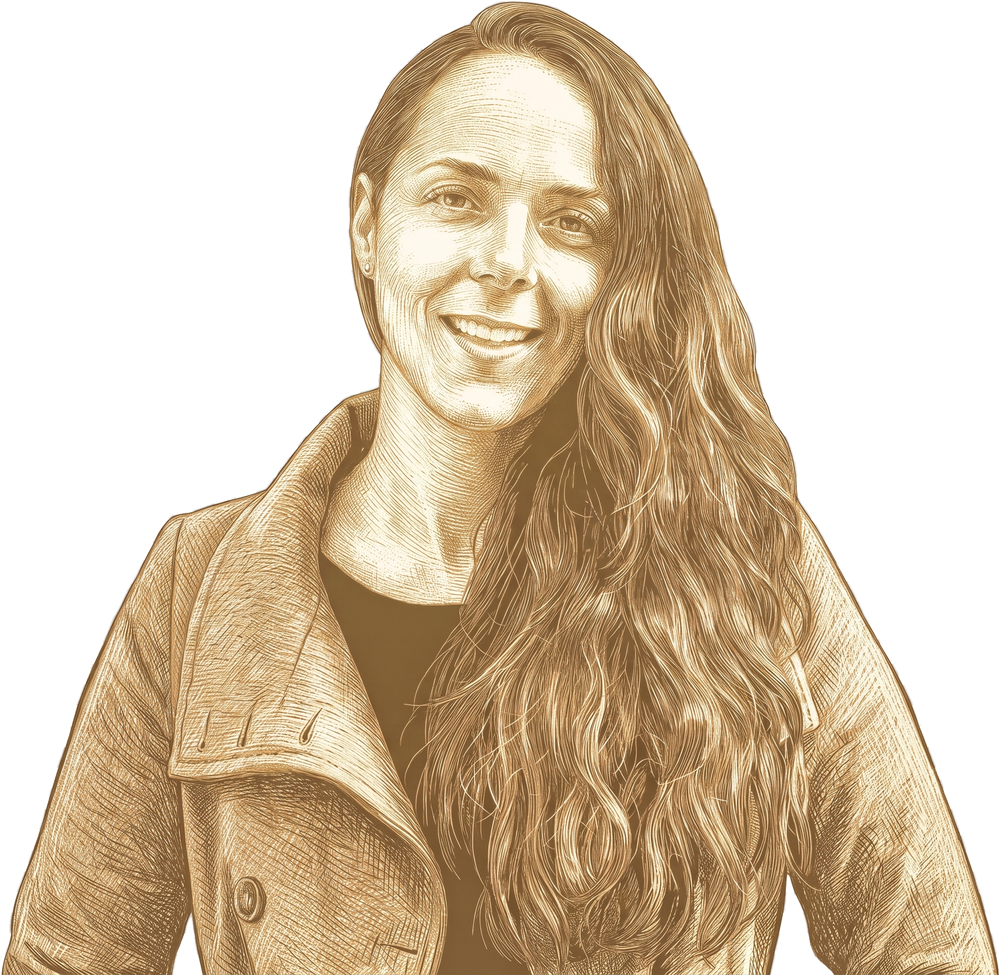
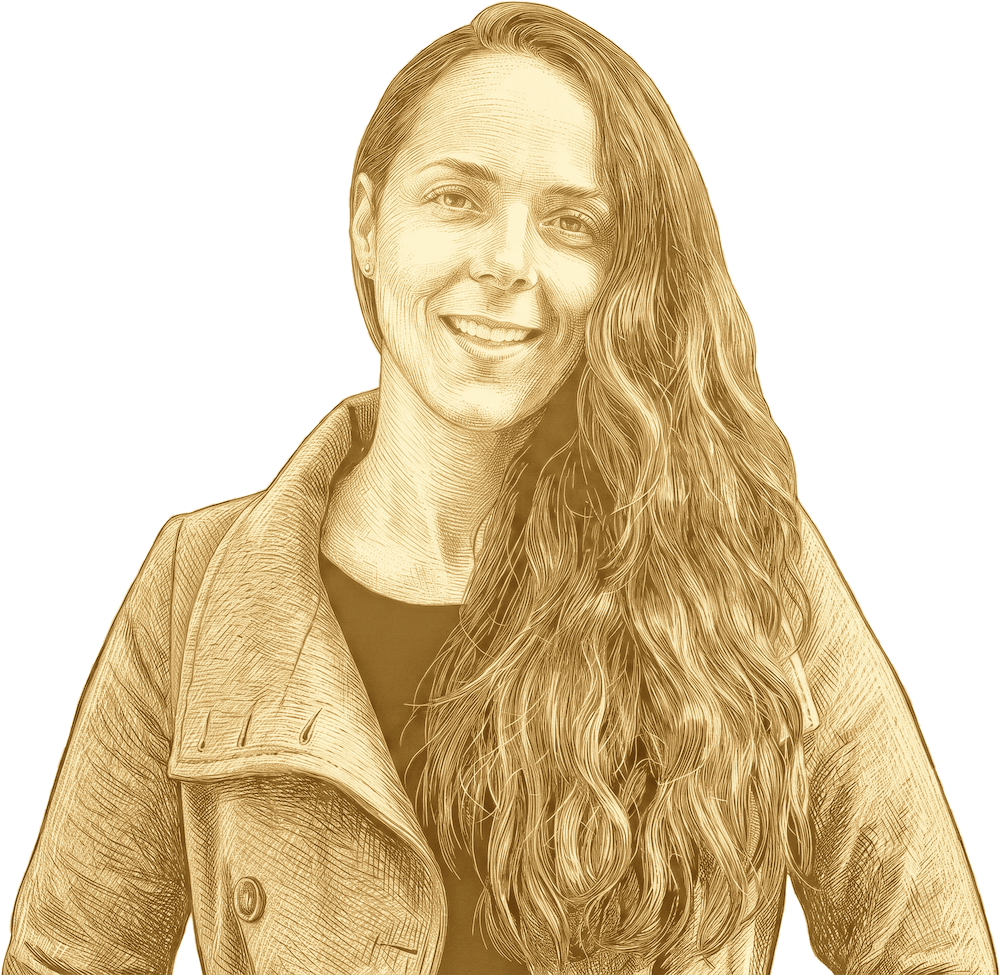
Life: warmer portrait tone matching the octopus
Claude-Session: https://claude.ai/code/session_016R5T8HULVGKfAE3PW3pdJb

diff --git a/site/life/index.html b/site/life/index.html
@@ -63,7 +63,7 @@
 <p class="life-description">I’m passionate about <strong>design, the open web, open source, robotics, ecology &amp; science.</strong> When I’m away from the screen, you’ll usually find me lost in a book or wandering with my dogs in the forest.</p>
         </div>
         <div class="life-header-right">
-            <img src="/img/life/mariona-engraving.png?v=t3" alt="Engraving-style portrait of Mariona smiling, with long wavy hair and a coat, drawn in sepia and gold" class="linus-image-school life-portrait">
+            <img src="/img/life/mariona-engraving.png?v=t4" alt="Engraving-style portrait of Mariona smiling, with long wavy hair and a coat, drawn in sepia and gold" class="linus-image-school life-portrait">
         </div>
     </div>
 </section>
